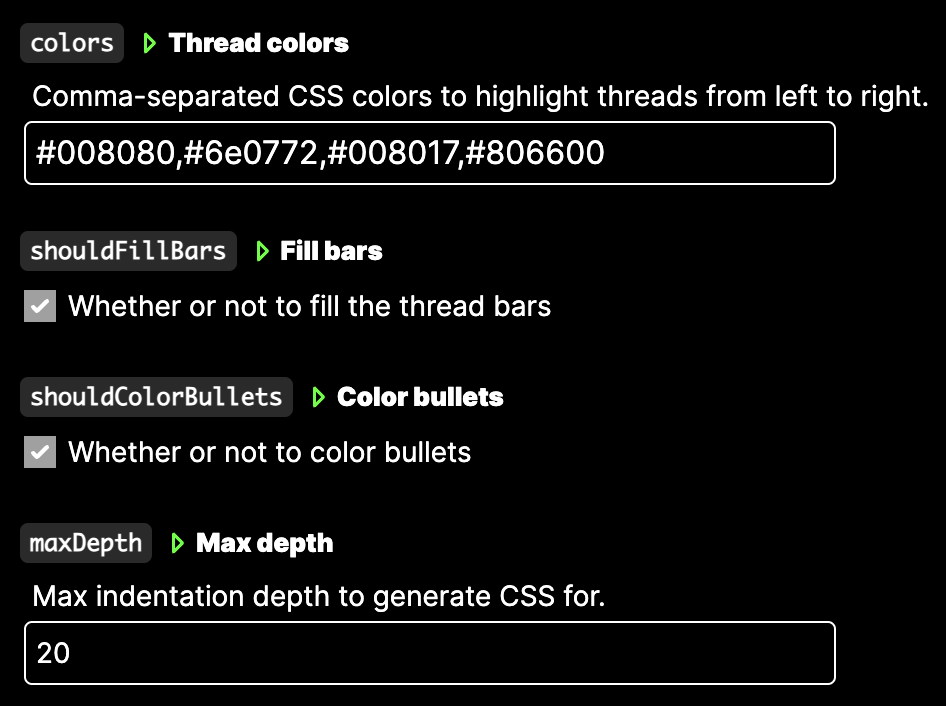
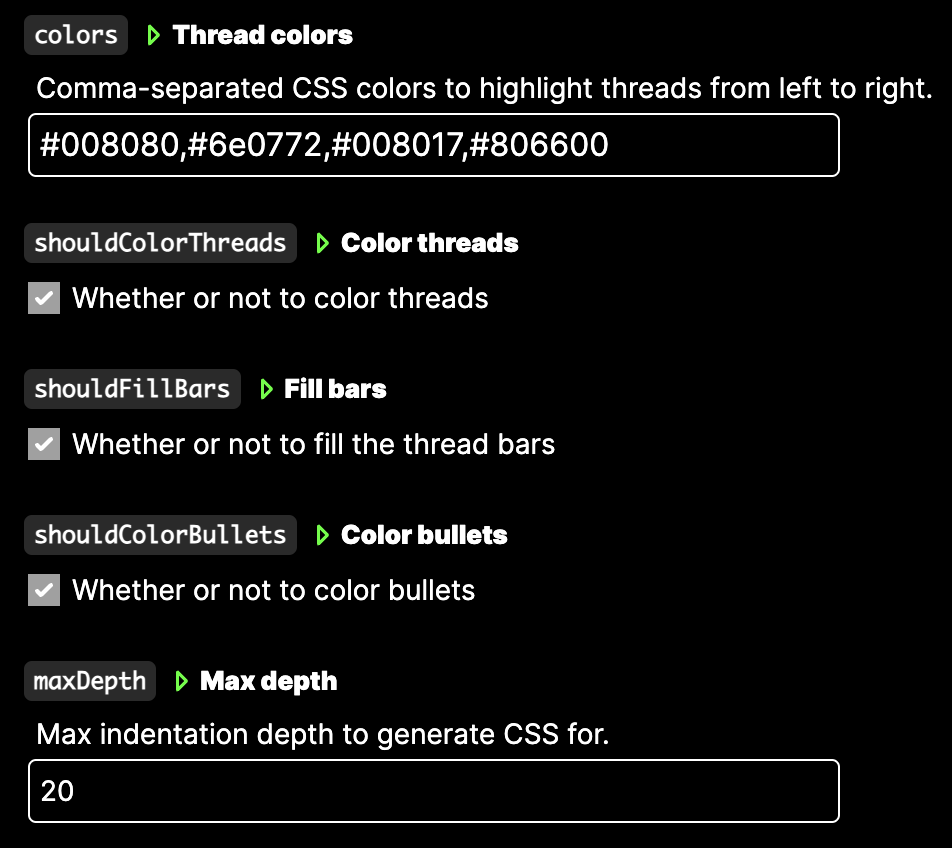
Make thread colors optional

Changed region(s): [[0.0, 0.0, 0.981, 0.966], [0.8584, 0.2493, 0.889, 0.2805]]

diff --git a/src/main.ts b/src/main.ts
@@ -4,6 +4,7 @@ import { logseq as PL } from '../package.json'
 const onSettingsChange = () => {
   const colors: string[] = logseq.settings?.colors.split(',')
   const maxDepth: number = logseq.settings?.maxDepth
+  const shouldColorThreads: boolean = logseq.settings?.shouldColorThreads
   const shouldFillBars: boolean = logseq.settings?.shouldFillBars
   const shouldColorBullets: boolean = logseq.settings?.shouldColorBullets
 
@@ -16,26 +17,24 @@ const onSettingsChange = () => {
   const varsString = vars.map(pair => pair.join(': ') + ';').join('\n')
   providedStyles = `:root { ${varsString} }`
 
-  const threadColorStyles = Array.from(
-    { length: maxDepth },
-    (_, i) => `
-      .ls-block[level="${i + 1}"] .block-children {
+  if (shouldColorThreads) {
+    const threadColorStyles = Array.from(
+      { length: maxDepth },
+      (_, i) => `
+      .ls-block[level="${i + 1}"] > .block-children-container > .block-children {
         border-left-color: var(--block-thread-color-level-${(i % colors.length) + 1});
       }
-
-      .ls-block[level="${i + 1}"] .block-children-left-border::after {
-        background-color: var(--block-thread-color-level-${(i % colors.length) + 1});
-      }
     `,
-  ).join('\n')
-  providedStyles = `
+    ).join('\n')
+    providedStyles = `
     ${providedStyles}
     ${threadColorStyles}
-  `
+    `
+  }
 
   if (shouldFillBars) {
     const fillBarsStyles = `
-      .block-children-left-border::after {
+      .block-children-left-border::before {
         content: '';
         position: absolute;
         left: 2px;
@@ -48,7 +47,9 @@ const onSettingsChange = () => {
       ${Array.from(
         { length: maxDepth },
         (_, i) => `
-          .ls-block[level="${i + 1}"] .block-children-left-border::after {
+          .ls-block[level="${
+            i + 1
+          }"] > .block-children-container > .block-children-left-border::before {
             background-color: var(--block-thread-color-level-${(i % colors.length) + 1});
           }
         `,
@@ -78,7 +79,7 @@ const onSettingsChange = () => {
   }
 
   logseq.provideStyle({
-    key: PL.id + '-threads',
+    key: PL.id,
     style: providedStyles,
   })
 }
@@ -96,6 +97,13 @@ logseq
       description: 'Comma-separated CSS colors to highlight threads from left to right.',
       title: 'Thread colors',
       type: 'string',
+    },
+    {
+      key: 'shouldColorThreads',
+      default: true,
+      description: 'Whether or not to color threads',
+      title: 'Color threads',
+      type: 'boolean',
     },
     {
       key: 'shouldFillBars',
